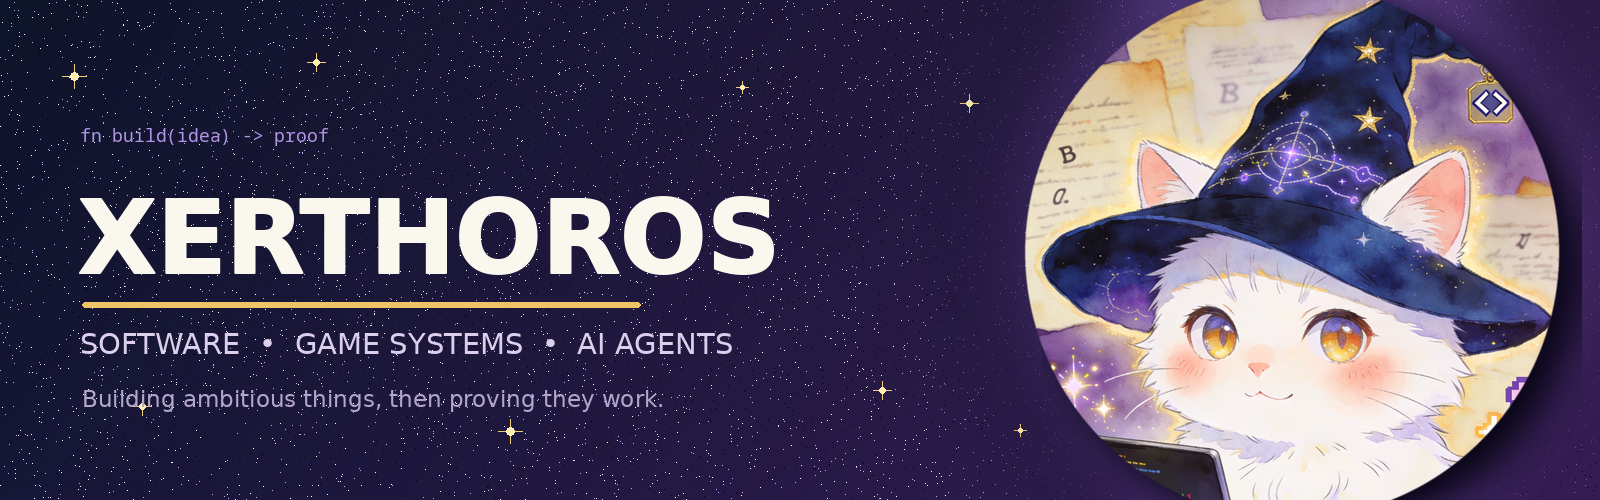
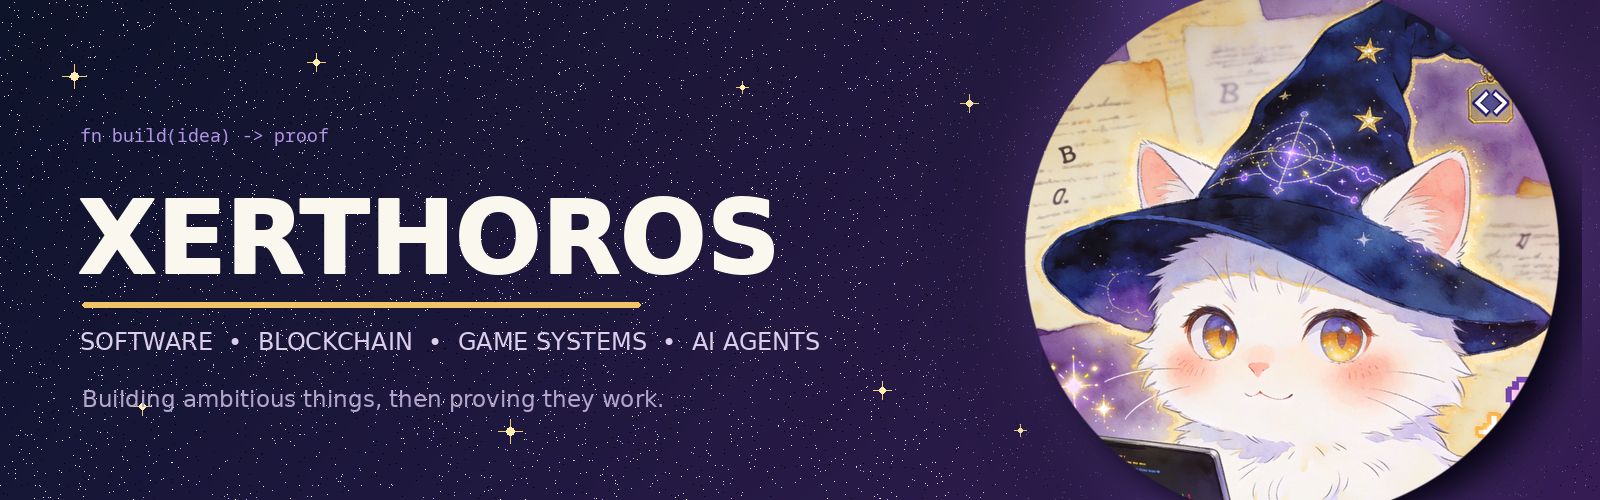
docs: add blockchain game development

Changed region(s): [[0.0312, 0.66, 0.5312, 0.72]]

diff --git a/README.md b/README.md
@@ -11,7 +11,7 @@
 
 ## Hi, I'm Xerthoros.
 
-I build software products, game systems, and AI-assisted developer tools. I usually get more interested after the prototype starts working. That is when the awkward bugs, migration problems, queue behavior, and deployment failures finally show themselves.
+I build software products, blockchain systems for games, game systems, and AI-assisted developer tools. I usually get more interested after the prototype starts working. That is when the awkward bugs, migration problems, queue behavior, and deployment failures finally show themselves.
 
 I use AI agents every day because they help me move faster. Generated code still has to earn its place: I need to reproduce the behavior, review the change, and see it work outside the happy path.
 
@@ -24,6 +24,10 @@ I use AI agents every day because they help me move faster. Generated code still
 A production BYOK code-review platform for GitHub. It combines deterministic scanning with specialist AI reviewers for security, correctness, missing tests, and unnecessary code. The system runs as a TypeScript monorepo with NestJS, Next.js, PostgreSQL, Redis/BullMQ, GitHub Apps, and Railway.
 
 [Website](https://crisplint.com) · [Dashboard](https://app.crisplint.com) · [Documentation](https://crisplint.com/docs) · [Install GitHub App](https://github.com/apps/crisplint/installations/new)
+
+### Blockchain for games
+
+I write Solidity and design blockchain systems for games. My focus is the boundary between on-chain ownership and economy logic, off-chain gameplay, and the services that keep both sides in sync. Contract security, gas costs, state migrations, and failure recovery are part of the design rather than cleanup work for later.
 
 ### Systems modernization
 
@@ -53,6 +57,7 @@ I use Hermes Agent and coding agents to research, plan, implement, review, and v
   <img src="https://img.shields.io/badge/Rust-181825?style=flat-square&logo=rust&logoColor=DEA584" alt="Rust" />
   <img src="https://img.shields.io/badge/Python-181825?style=flat-square&logo=python&logoColor=FFD43B" alt="Python" />
   <img src="https://img.shields.io/badge/GDScript-181825?style=flat-square&logo=godotengine&logoColor=478CBF" alt="GDScript" />
+  <img src="https://img.shields.io/badge/Solidity-181825?style=flat-square&logo=solidity&logoColor=white" alt="Solidity" />
   <img src="https://img.shields.io/badge/SQL-181825?style=flat-square&logo=postgresql&logoColor=61DAFB" alt="SQL" />
 </p>
 
